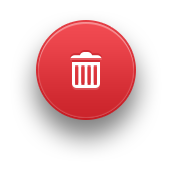
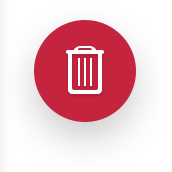
New buttons

Changed region(s): [[0.1744, 0.1163, 0.843, 0.843]]

diff --git a/Cook/Classes/External/CKEditViewController/CKEditingViewHelper.m b/Cook/Classes/External/CKEditViewController/CKEditingViewHelper.m
@@ -183,15 +183,18 @@
 #pragma mark - Buttons
 
 + (UIButton *)okayButtonWithTarget:(id)target selector:(SEL)selector {
-    return [self buttonWithImage:[UIImage imageNamed:@"cook_btns_okay.png"] target:target selector:selector];
+    return [self buttonWithImage:[UIImage imageNamed:@"cook_btns_okay.png"]
+                   selectedImage:[UIImage imageNamed:@"cook_btns_okay_onpress.png"] target:target selector:selector];
 }
 
 + (UIButton *)cancelButtonWithTarget:(id)target selector:(SEL)selector {
-    return [self buttonWithImage:[UIImage imageNamed:@"cook_btns_cancel.png"] target:target selector:selector];
+    return [self buttonWithImage:[UIImage imageNamed:@"cook_btns_cancel.png"]
+                   selectedImage:[UIImage imageNamed:@"cook_btns_cancel_onpress.png"] target:target selector:selector];
 }
 
 + (UIButton *)deleteButtonWithTarget:(id)target selector:(SEL)selector {
-    return [self buttonWithImage:[UIImage imageNamed:@"cook_btns_delete.png"] target:target selector:selector];
+    return [self buttonWithImage:[UIImage imageNamed:@"cook_btns_delete.png"]
+                   selectedImage:[UIImage imageNamed:@"cook_btns_delete_onpress.png"] target:target selector:selector];
 }
 
 + (UIButton *)buttonWithImage:(UIImage *)image target:(id)target selector:(SEL)selector {

diff --git a/Cook/Classes/Controllers/Dashboard/PagingBenchtopViewController.m b/Cook/Classes/Controllers/Dashboard/PagingBenchtopViewController.m
@@ -571,6 +571,7 @@
         // Position the delete button.
         CGRect frame = [self.collectionView convertRect:cell.frame toView:overlayView];
         UIButton *deleteButton = [ViewHelper buttonWithImage:[UIImage imageNamed:@"cook_btns_remove.png"]
+                                               selectedImage:[UIImage imageNamed:@"cook_btns_remove_onpress.png"]
                                                       target:self
                                                     selector:@selector(deleteTapped:)];
         deleteButton.frame = CGRectMake(frame.origin.x - floorf(deleteButton.frame.size.width / 2.0) + 3.0,
